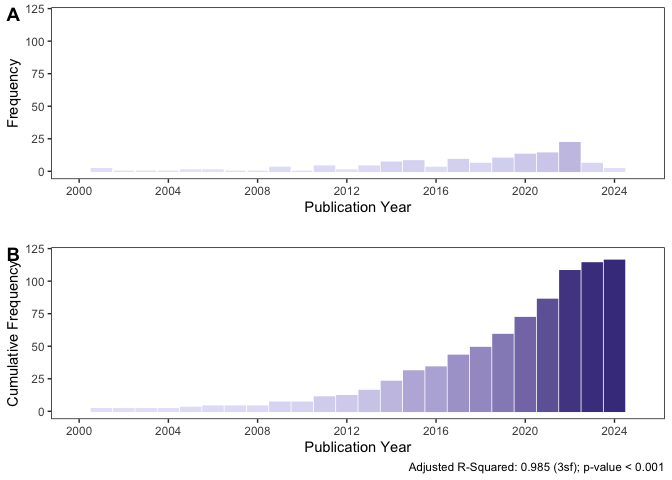
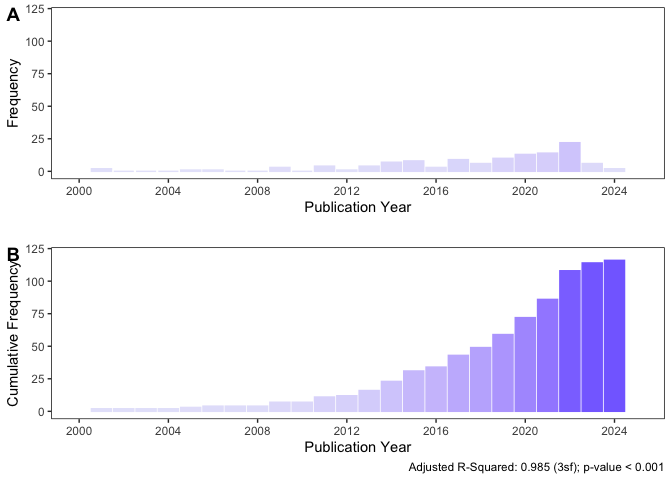
modified plot combinations to aggregate all indicators; adjusted brewer palettes

Changed region(s): [[0.5625, 0.5312, 0.9375, 0.875], [0.8125, 0.2812, 0.875, 0.375]]

diff --git a/scripts/cleaning-script.md b/scripts/cleaning-script.md
@@ -222,8 +222,8 @@ summary(exponential_model)
 temporal_frequencies_plot <- temporal_frequencies %>%
   ggplot(aes(x=pub_year,y=frequency,color=frequency,fill=frequency)) + 
   geom_col() +
-  scale_fill_gradient(name="Count",low="lavender",high="slateblue4",limits=c(1,116),na.value="lavender",breaks=c(1,29,58,87,116)) +
-  scale_color_gradient(name="Count",low="lavender",high="slateblue4",limits=c(1,116),na.value="lavender",breaks=c(1,29,58,87,116)) +
+  scale_fill_gradient(name="Count",low="lavender",high="lightslateblue",limits=c(1,116),na.value="lavender",breaks=c(1,29,58,87,116)) +
+  scale_color_gradient(name="Count",low="lavender",high="lightslateblue",limits=c(1,116),na.value="lavender",breaks=c(1,29,58,87,116)) +
   xlab("Publication Year") + 
   ylab("Frequency") + 
   scale_y_continuous(limits=c(0,120)) +
@@ -232,8 +232,8 @@ temporal_frequencies_plot <- temporal_frequencies %>%
   theme(legend.position="none",legend.justification="center",legend.box.spacing=unit(0,"pt"),legend.key.size=unit(10,"pt"),panel.grid=element_blank(),panel.background=element_rect(fill="white"),panel.border=element_rect(fill=NA),legend.title=element_text(size=10),legend.text=element_text(size=10),plot.title=element_text(size=10))
 temporal_cumulative_frequencies_plot <- temporal_frequencies %>%
   ggplot(aes(x=pub_year,y=cumulative_frequency,color=cumulative_frequency,fill=cumulative_frequency)) +
-  scale_fill_gradient(name="Count",low="lavender",high="slateblue4",limits=c(1,116),na.value="lavender",breaks=c(1,29,58,87,116)) +
-  scale_color_gradient(name="Count",low="lavender",high="slateblue4",limits=c(1,116),na.value="lavender",breaks=c(1,29,58,87,116)) +
+  scale_fill_gradient(name="Count",low="lavender",high="lightslateblue",limits=c(1,116),na.value="lavender",breaks=c(1,29,58,87,116)) +
+  scale_color_gradient(name="Count",low="lavender",high="lightslateblue",limits=c(1,116),na.value="lavender",breaks=c(1,29,58,87,116)) +
   geom_col() + 
   xlab("Publication Year") + 
   ylab("Cumulative Frequency") + 
@@ -390,7 +390,7 @@ spatial_frequencies_joined <- left_join(global_shapefile,spatial_frequencies,by=
 national_frequencies <- spatial_frequencies_joined %>%
   ggplot(aes(x=long,y=lat,fill=frequency,group=group)) + 
   geom_polygon(color="black",linewidth=0.125) +
-  scale_fill_gradient(low="lavender",high="slateblue4",na.value="white",limits=c(0,55),breaks=c(0,11,22,33,44,55)) +
+  scale_fill_gradient(low="lavender",high="lightslateblue",na.value="white",limits=c(0,55),breaks=c(0,11,22,33,44,55)) +
   coord_sf(crs=crs_robin) +
   xlab("") + 
   ylab("") +
@@ -450,7 +450,7 @@ state_frequencies_joined <- left_join(usa_shapefile,state_frequencies,by="state"
 usa_frequencies <- state_frequencies_joined %>%
   ggplot(aes(x=long,y=lat,fill=frequency,group=group)) + 
   geom_polygon(color="black",linewidth=0.125) +
-  scale_fill_gradient(low="lavender",high="slateblue4",na.value="white",limits=c(1,55)) +
+  scale_fill_gradient(low="lavender",high="lightslateblue",na.value="white",limits=c(1,55)) +
   xlab("") + 
   ylab("") +
   labs(caption="") +
@@ -505,7 +505,7 @@ subnational_frequencies_joined <- left_join(uk_shapefile,subnational_frequencies
 uk_frequencies <- subnational_frequencies_joined %>%
 ggplot(aes(fill=frequency,group=geonunit)) + 
   geom_sf(aes(fill=frequency),color="black",linewidth=0.125) +
-  scale_fill_gradient(low="lavender",high="slateblue4",na.value="white",limits=c(1,55)) +
+  scale_fill_gradient(low="lavender",high="lightslateblue",na.value="white",limits=c(1,55)) +
   theme(legend.key.width=unit(3,"lines"),legend.position="none",legend.justification="center",legend.box.spacing=unit(-15,"pt"),legend.key.size=unit(10,"pt"),panel.grid=element_blank(),panel.background=element_rect(fill="aliceblue"),panel.border=element_rect(fill=NA),axis.text=element_blank(),axis.ticks=element_blank(),legend.title=element_text(size=10),legend.text=element_text(size=10),plot.title=element_text(size=10))
 ```
 
@@ -558,43 +558,163 @@ ppi_frequencies
 principal_indicator_var_manual <- c("Food Choice, Intended","Food Choice, Self-Reported","Food Choice, Observed","Food Service, Observed")
 frequency_manual <- c(36,67,54,2)
 ppi_frequencies_manual <- tibble(principal_indicator_var_manual,frequency_manual) %>%
-  mutate(mode_manual=case_when(principal_indicator_var_manual=="Food Choice, Intended"~"Intended",
-                        principal_indicator_var_manual=="Food Choice, Self-Reported"~"Self-Reported",
-                        principal_indicator_var_manual=="Food Choice, Observed"~"Observed",
-                        principal_indicator_var_manual=="Food Service, Observed"~"Observed")) %>%
-  mutate(across(principal_indicator_var_manual,str_replace_all,"Food Choice, Observed","Food Choice")) %>%
-  mutate(across(principal_indicator_var_manual,str_replace_all,"Food Choice, Intended","Food Choice")) %>%
-  mutate(across(principal_indicator_var_manual,str_replace_all,"Food Choice, Self-Reported","Food Choice")) %>%
-  mutate(across(principal_indicator_var_manual,str_replace_all,"Food Service, Observed","Food Service"))
+  arrange(desc(frequency_manual))
 ppi_frequencies_manual 
 ```
 
-    ## # A tibble: 4 × 3
-    ##   principal_indicator_var_manual frequency_manual mode_manual  
-    ##   <chr>                                     <dbl> <chr>        
-    ## 1 Food Choice                                  36 Intended     
-    ## 2 Food Choice                                  67 Self-Reported
-    ## 3 Food Choice                                  54 Observed     
-    ## 4 Food Service                                  2 Observed
-
-need to run chisq.test 36,54,67. 2
+    ## # A tibble: 4 × 2
+    ##   principal_indicator_var_manual frequency_manual
+    ##   <chr>                                     <dbl>
+    ## 1 Food Choice, Self-Reported                   67
+    ## 2 Food Choice, Observed                        54
+    ## 3 Food Choice, Intended                        36
+    ## 4 Food Service, Observed                        2
 
 ``` r
-ppi_frequencies_plot <- ppi_frequencies_manual %>%
-  ggplot(aes(x=principal_indicator_var_manual,y=frequency_manual,fill=mode_manual,color=mode_manual)) + 
-  geom_col() +
-  scale_fill_manual(values=c("lavender","lightslateblue","slateblue4")) +
-  scale_color_manual(values=c("lavender","lightslateblue","slateblue4")) +
-  xlab("Primary Indicator") +
-  ylab("Frequency") +
-  guides(fill=guide_legend(title="Mode"),color=guide_legend(title="Mode")) +
-  geom_signif(comparisons=list(c("Food Choice","Food Service")),color="black",size=0.25,annotation="***",y_position=158,tip_length=0.02,vjust=0) +
-  theme(aspect.ratio=2,legend.position="right",panel.grid=element_blank(),panel.background=element_rect(fill="white"),panel.border=element_rect(fill=NA),legend.title=element_text(size=10),legend.text=element_text(size=10),plot.title=element_text(size=10))
-ggsave(filename="primary-performance-indicators.png",plot=ppi_frequencies_plot,path="/Users/kenjinchang/github/stakeholder-analysis/figures",width=20,height=20,units="cm",dpi=150,limitsize=TRUE)
-ppi_frequencies_plot
+ppi_contingency_table <- ppi_frequencies_manual %>%
+  rename(Present=frequency_manual) %>%
+  mutate(Absent=116-Present)
+ppi_contingency_table
 ```
 
-![](cleaning-script_files/figure-gfm/unnamed-chunk-26-1.png)<!-- -->
+    ## # A tibble: 4 × 3
+    ##   principal_indicator_var_manual Present Absent
+    ##   <chr>                            <dbl>  <dbl>
+    ## 1 Food Choice, Self-Reported          67     49
+    ## 2 Food Choice, Observed               54     62
+    ## 3 Food Choice, Intended               36     80
+    ## 4 Food Service, Observed               2    114
+
+``` r
+ppi_contigency_table <- as.table(rbind(c(67,54,36,2),c(49,62,80,114)))
+dimnames(ppi_contigency_table) <- list(dichotomy=c("Present","Absent"),
+                                       indicators=c("Food Choice, Self-Reported","Food Choice, Observed","Food Choice, Intended","Food Service, Observed"))
+ppi_chisq_test <- chisq.test(ppi_contigency_table)
+ppi_chisq_test
+```
+
+    ## 
+    ##  Pearson's Chi-squared test
+    ## 
+    ## data:  ppi_contigency_table
+    ## X-squared = 91.269, df = 3, p-value < 2.2e-16
+
+Significant associated between the type of principal performance
+indicator and its likelihood of appearance
+
+``` r
+ppi_observed_counts <- ppi_chisq_test$observed
+print(ppi_chisq_test)
+```
+
+    ## 
+    ##  Pearson's Chi-squared test
+    ## 
+    ## data:  ppi_contigency_table
+    ## X-squared = 91.269, df = 3, p-value < 2.2e-16
+
+``` r
+ppi_expected_counts <- ppi_chisq_test$expected
+print(round(ppi_expected_counts,2))
+```
+
+    ##          indicators
+    ## dichotomy Food Choice, Self-Reported Food Choice, Observed
+    ##   Present                      39.75                 39.75
+    ##   Absent                       76.25                 76.25
+    ##          indicators
+    ## dichotomy Food Choice, Intended Food Service, Observed
+    ##   Present                 39.75                  39.75
+    ##   Absent                  76.25                  76.25
+
+``` r
+ppi_pearson_residuals <- ppi_chisq_test$residuals
+print(round(ppi_pearson_residuals,2))
+```
+
+    ##          indicators
+    ## dichotomy Food Choice, Self-Reported Food Choice, Observed
+    ##   Present                       4.32                  2.26
+    ##   Absent                       -3.12                 -1.63
+    ##          indicators
+    ## dichotomy Food Choice, Intended Food Service, Observed
+    ##   Present                 -0.59                  -5.99
+    ##   Absent                   0.43                   4.32
+
+``` r
+ppi_contributions <- (ppi_observed_counts-ppi_expected_counts)^2/ppi_expected_counts
+ppi_total_chi_square <- ppi_chisq_test$statistic
+ppi_percentage_contributions <- 100*ppi_contributions/ppi_total_chi_square
+print("Percentage Contributions:")
+```
+
+    ## [1] "Percentage Contributions:"
+
+``` r
+print(round(ppi_percentage_contributions,2))
+```
+
+    ##          indicators
+    ## dichotomy Food Choice, Self-Reported Food Choice, Observed
+    ##   Present                      20.47                  5.60
+    ##   Absent                       10.67                  2.92
+    ##          indicators
+    ## dichotomy Food Choice, Intended Food Service, Observed
+    ##   Present                  0.39                  39.28
+    ##   Absent                   0.20                  20.48
+
+``` r
+library(pheatmap)
+pheatmap(ppi_percentage_contributions,display_numbers=TRUE,cluster_rows=FALSE,cluster_cols=FALSE,main="Percentage Contributions to Chi-Square Statistic")
+```
+
+![](cleaning-script_files/figure-gfm/unnamed-chunk-33-1.png)<!-- -->
+
+``` r
+ppi_contingency_table_alt <- ppi_contingency_table %>%
+  pivot_longer(!principal_indicator_var_manual,names_to="appearance",values_to="frequency_manual") %>%
+  mutate(contribution=case_when(principal_indicator_var_manual=="Food Choice, Self-Reported"&appearance=="Present"~20.47,
+    principal_indicator_var_manual=="Food Choice, Self-Reported"&appearance=="Absent"~10.67,
+    principal_indicator_var_manual=="Food Choice, Observed"&appearance=="Present"~5.60,
+    principal_indicator_var_manual=="Food Choice, Observed"&appearance=="Absent"~2.92,
+    principal_indicator_var_manual=="Food Choice, Intended"&appearance=="Present"~0.39,
+    principal_indicator_var_manual=="Food Choice, Intended"&appearance=="Absent"~0.20,
+    principal_indicator_var_manual=="Food Service, Observed"&appearance=="Present"~39.28,
+    principal_indicator_var_manual=="Food Service, Observed"&appearance=="Absent"~20.48)) %>%
+  mutate(label_y=case_when(appearance=="Present"~118,
+                           appearance=="Absent"~-2))
+ppi_contingency_table_alt
+```
+
+    ## # A tibble: 8 × 5
+    ##   principal_indicator_var_man…¹ appearance frequency_manual contribution label_y
+    ##   <chr>                         <chr>                 <dbl>        <dbl>   <dbl>
+    ## 1 Food Choice, Self-Reported    Present                  67        20.5      118
+    ## 2 Food Choice, Self-Reported    Absent                   49        10.7       -2
+    ## 3 Food Choice, Observed         Present                  54         5.6      118
+    ## 4 Food Choice, Observed         Absent                   62         2.92      -2
+    ## 5 Food Choice, Intended         Present                  36         0.39     118
+    ## 6 Food Choice, Intended         Absent                   80         0.2       -2
+    ## 7 Food Service, Observed        Present                   2        39.3      118
+    ## 8 Food Service, Observed        Absent                  114        20.5       -2
+    ## # ℹ abbreviated name: ¹principal_indicator_var_manual
+
+``` r
+ppi_frequencies_plot <- ppi_contingency_table_alt %>%
+  ggplot(aes(x=principal_indicator_var_manual,y=frequency_manual,fill=appearance,color=appearance)) + 
+  geom_col() +
+  geom_text(aes(y=label_y,label=paste(format(contribution,nsmall=2),"%")),color="black",size=3) +
+  geom_signif(comparisons=list(c("Food Choice, Self-Reported","Food Service, Observed")),color="black",size=0.25,annotation="***",y_position=116,tip_length=0.02,vjust=0) +
+  xlab("Principal Indicator") +
+  ylab("Frequency") +
+  scale_x_discrete(limits=c("Food Service, Observed","Food Choice, Intended","Food Choice, Observed","Food Choice, Self-Reported")) + 
+  scale_y_continuous(breaks=c(0,29,58,87,116)) +
+  scale_fill_manual(values=c("lavender","lightslateblue")) +
+  scale_color_manual(values=c("lavender","lightslateblue")) +
+  guides(fill=guide_legend(title="Mode"),color=guide_legend(title="Mode")) +
+  labs(caption="X-squared: 91.3 (3sf); p-value < 0.001") + 
+  theme(aspect.ratio=1.2,legend.position="right",panel.grid=element_blank(),panel.background=element_rect(fill="white"),panel.border=element_rect(fill=NA),legend.title=element_text(size=10),legend.text=element_text(size=10),plot.title=element_text(size=10))
+```
 
 ### Accessory Performance Indicators
 
@@ -830,7 +950,7 @@ library(pheatmap)
 pheatmap(api_percentage_contributions,display_numbers=TRUE,cluster_rows=FALSE,cluster_cols=FALSE,main="Percentage Contributions to Chi-Square Statistic")
 ```
 
-![](cleaning-script_files/figure-gfm/unnamed-chunk-37-1.png)<!-- -->
+![](cleaning-script_files/figure-gfm/unnamed-chunk-46-1.png)<!-- -->
 
 Rerun this using list class instead of variety class
 
@@ -1104,17 +1224,24 @@ print(round(qpi_percentage_contributions,2))
 pheatmap(qpi_percentage_contributions,display_numbers=TRUE,cluster_rows=FALSE,cluster_cols=FALSE,main="Percentage Contributions to Chi-Square Statistic")
 ```
 
-![](cleaning-script_files/figure-gfm/unnamed-chunk-57-1.png)<!-- -->
+![](cleaning-script_files/figure-gfm/unnamed-chunk-66-1.png)<!-- -->
 
 ``` r
-combined_indicators <- ggarrange(api_frequencies_plot,qpi_frequencies_plot,
-          nrow=2,
-          labels=c("A","B"))
-ggsave(filename="combined-performance-indicators.png",plot=combined_indicators,path="/Users/kenjinchang/github/stakeholder-analysis/figures",width=48,height=48,units="cm",dpi=150,limitsize=TRUE)
+principal_qualifying_indicator_plots <- ggarrange(ppi_frequencies_plot,qpi_frequencies_plot,
+          ncol=2,
+          labels=c("A","C"))
+accessory_indicator_plots <- ggarrange(api_frequencies_plot,
+          labels="B")
+```
+
+``` r
+combined_indicators <- ggarrange(principal_qualifying_indicator_plots,accessory_indicator_plots,
+          nrow=2)
+ggsave(filename="combined-performance-indicators.png",plot=combined_indicators,path="/Users/kenjinchang/github/stakeholder-analysis/figures",width=50,height=50,units="cm",dpi=150,limitsize=TRUE)
 combined_indicators
 ```
 
-![](cleaning-script_files/figure-gfm/unnamed-chunk-58-1.png)<!-- -->
+![](cleaning-script_files/figure-gfm/unnamed-chunk-68-1.png)<!-- -->
 
 ### Gap Monitoring
 
